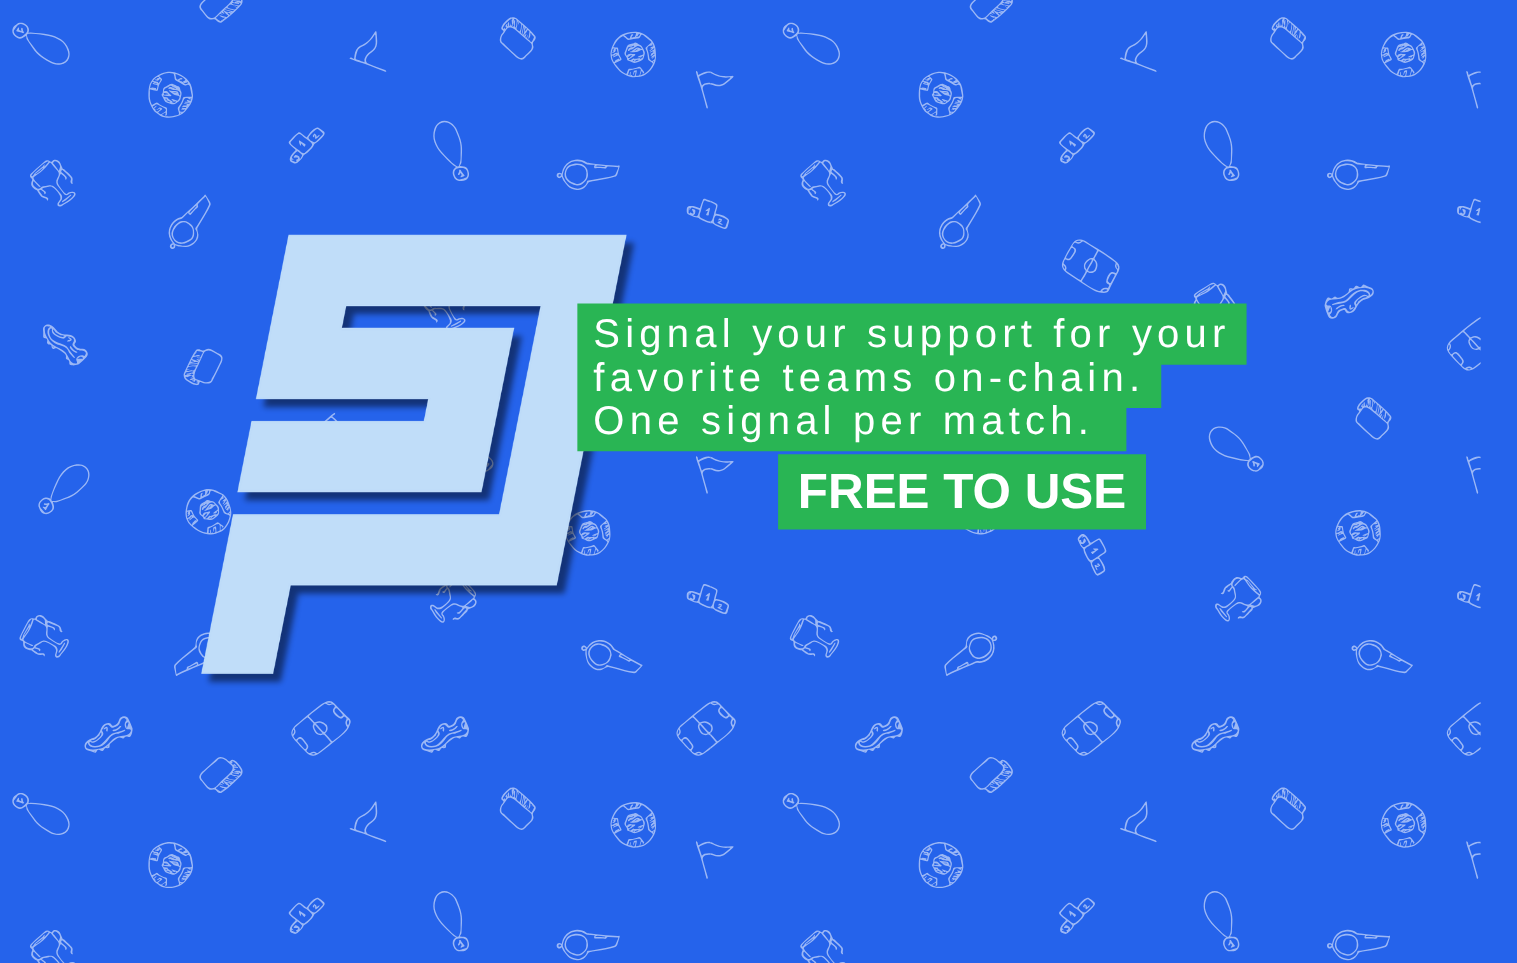
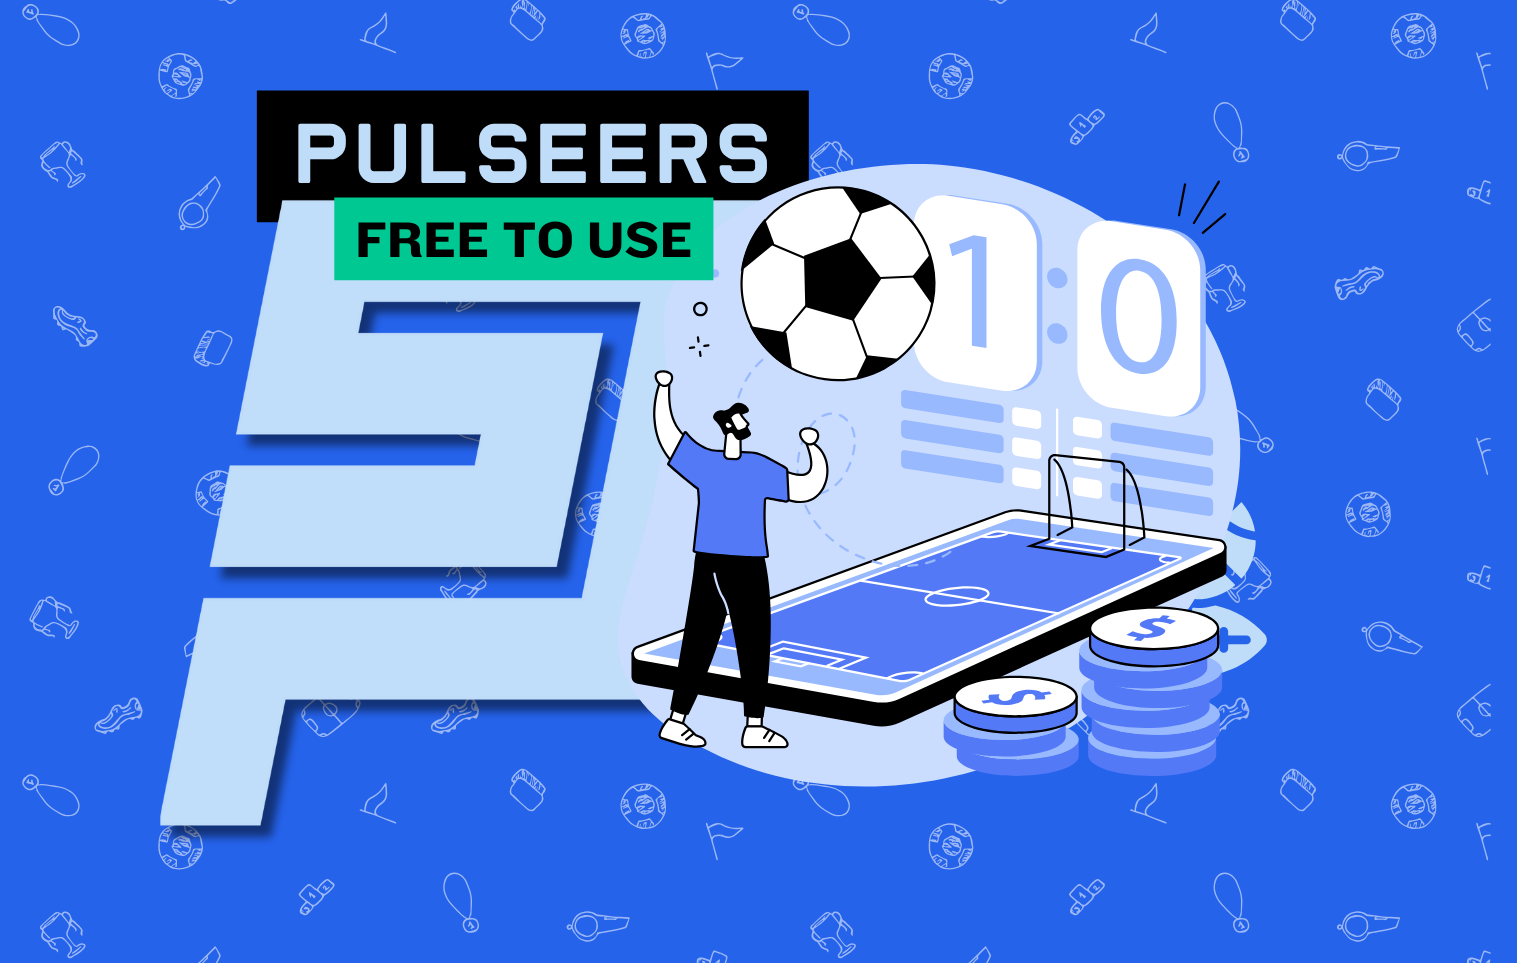
Fix ogTitle validation and update brand images
**1. Fix ogTitle character limit (30 chars max)**
- farcaster.json: "Pulseers - Football Predictions" → "Pulseers" (8 chars)
- layout.tsx: Updated OpenGraph and Twitter titles to "Pulseers"
- Fixes Base Build validation error

**2. Update brand images from GitHub**
- hero.png: Updated to new 220KB version
- og-image.png: Updated to new 228KB version
- Images updated via GitHub commit by user
- Better quality and branding

**Validation before:**
❌ ogTitle: "Pulseers - Football Predictions" (33 chars) - TOO LONG

**Validation after:**
✅ ogTitle: "Pulseers" (8 chars) - VALID

Files changed:
- frontend/app/layout.tsx (3 title updates)
- frontend/public/.well-known/farcaster.json (ogTitle)
- frontend/public/hero.png (binary update)
- frontend/public/og-image.png (binary update)

diff --git a/frontend/app/layout.tsx b/frontend/app/layout.tsx
@@ -15,7 +15,7 @@ export const metadata: Metadata = {
     apple: [{ url: "/icon-1024.png", sizes: "1024x1024", type: "image/png" }],
   },
   openGraph: {
-    title: "Pulseers - Football Predictions",
+    title: "Pulseers",
     description: "Predict football matches daily on Base Mainnet and compete for prizes!",
     url: "https://pulseers.seershub.com",
     siteName: "Pulseers",
@@ -32,7 +32,7 @@ export const metadata: Metadata = {
   },
   twitter: {
     card: "summary_large_image",
-    title: "Pulseers - Football Predictions",
+    title: "Pulseers",
     description: "Predict football matches daily on Base Mainnet and compete for prizes!",
     images: ["https://pulseers.seershub.com/og-image.png"],
   },
